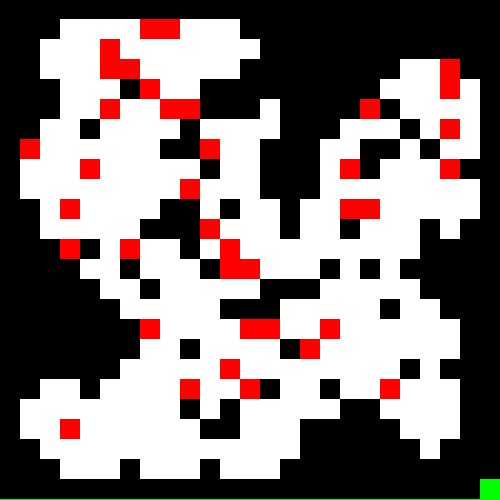
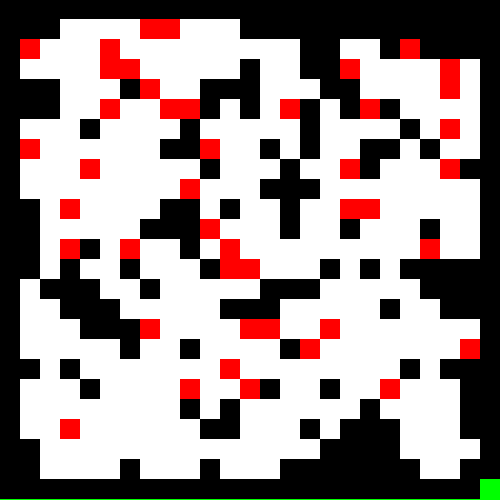
Fix Issue With Initialization of newCells

diff --git a/Automata.java b/Automata.java
@@ -24,8 +24,8 @@ public class Automata {
             throw new Error("Cell Size does not divide evenly into image dimensions");
         }
 
-        previousCells = new Cell[imgHeight][imgWidth];
-        newCells = new Cell[imgHeight][imgWidth];
+        previousCells = new Cell[imgHeight/cellSize][imgWidth/cellSize];
+        newCells = new Cell[imgHeight/cellSize][imgWidth/cellSize];
         this.imgWidth = imgWidth;
         this.imgHeight = imgHeight;
         this.cellSize = cellSize;
@@ -40,7 +40,7 @@ public class Automata {
         }
 
         previousCells = new Cell[imgHeight/cellSize][imgWidth/cellSize];
-        newCells = new Cell[imgHeight][imgWidth];
+        newCells = new Cell[imgHeight/cellSize][imgWidth/cellSize];
         this.imgWidth = imgWidth;
         this.imgHeight = imgHeight;
         this.cellSize = cellSize;
@@ -51,13 +51,14 @@ public class Automata {
         Random rand = new Random(2);
         for(int r = 0; r < previousCells.length; r++){
             for(int c = 0; c < previousCells[r].length; c++){
-                newCells[r][c] = new Cell(Cell.EMPTY);
+                
 
                 int probabiltiy = rand.nextInt(solidChance + floorChance + emptyChance + 1);
                 System.out.println(probabiltiy);
                 //draws solid border around image
                 if(r == 0 || c == 0 || r == previousCells.length-1 || c == previousCells[r].length - 1){
                     previousCells[r][c] = new Cell(Cell.SOLID);
+                    newCells[r][c] = new Cell(Cell.SOLID);
                 }
                 //initalizes each cell to a wall, floor, or empty space 
                 else if(solidChance + floorChance + emptyChance > 10){
@@ -65,12 +66,15 @@ public class Automata {
                 }
                else if(probabiltiy <= solidChance){
                     previousCells[r][c] = new Cell(Cell.SOLID);
+                    newCells[r][c] = new Cell(Cell.SOLID);
                 }
                  else if(probabiltiy > solidChance && probabiltiy <= solidChance + floorChance){
                     previousCells[r][c] = new Cell(Cell.FLOOR);
+                    newCells[r][c] = new Cell(Cell.FLOOR);
                  }
                 else if(probabiltiy > solidChance + floorChance && probabiltiy <= solidChance + floorChance + emptyChance){
                     previousCells[r][c] = new Cell(Cell.EMPTY);
+                    newCells[r][c] = new Cell(Cell.EMPTY);
                 }
                 else{
                     System.out.println("Error " + probabiltiy);
@@ -112,7 +116,7 @@ public class Automata {
                  imgRow = cellSize * (cells.length - r - 1); //accounts for Utility class flipping of row variable
                  imgCol = cellSize * c;
                 if(cells[r][c].isModified()){
-                    System.out.println("This cell at (" + r + ", " + c + ") was modified to " + previousCells[r][c].getType());
+                    System.out.println("This cell at (" + r + ", " + c + ") was modified to " + cells[r][c].getType());
                 }
                 if(cells[r][c].isType(Cell.SOLID)){
                     System.out.println("This cell at (" + r + ", " + c + ") was colored black");
